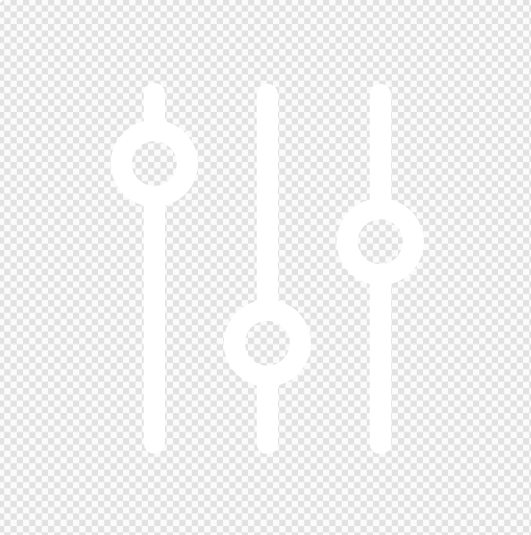
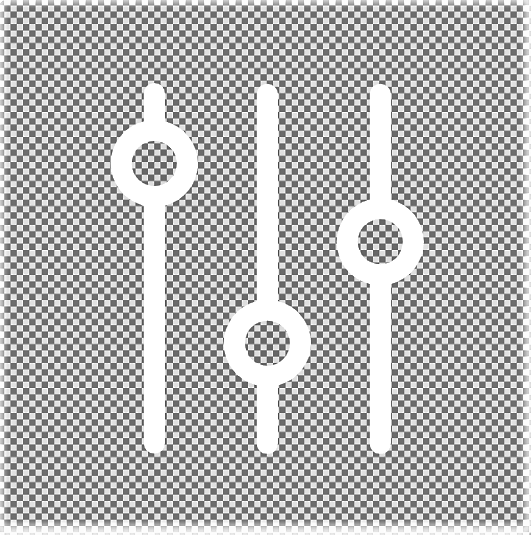
settings.jtm,l

diff --git a/Settings/Settings.html b/Settings/Settings.html
@@ -2,9 +2,68 @@
 <html lang="en">
 <head>
     <meta charset="UTF-8">
-    <title>Title</title>
+    <title>IntecTIV TITAN</title>
+
+    <meta name="description" content="Settings">
+    <meta name="viewport" content="width=device-width, initial-scale=1">
+
+    <link rel="manifest" href="../site.webmanifest">
+    <link rel="apple-touch-icon" href="../icon.png">
+    <!-- Place favicon.ico in the root directory -->
+
+    <link rel="stylesheet" href="../css/normalize.css">
+    <link rel="stylesheet" href="../css/main.css">
+
+    <!-- Google Font Roboto -->
+    <link href="https://fonts.googleapis.com/css?family=Roboto" rel="stylesheet">
+    <!-- Bootstrap -->
+    <link rel="stylesheet" href="https://maxcdn.bootstrapcdn.com/bootstrap/3.3.7/css/bootstrap.min.css">
+    <!-- Scrollbar Custom CSS -->
+    <link rel="stylesheet" href="https://cdnjs.cloudflare.com/ajax/libs/malihu-custom-scrollbar-plugin/3.1.5/jquery.mCustomScrollbar.min.css">
+
+    <meta name="theme-color" content="#fafafa">
 </head>
 <body>
 
+
+
+
+
+<!-- jQuery CDN - Slim version (=without AJAX) -->
+<script src="https://code.jquery.com/jquery-3.3.1.slim.min.js" integrity="sha384-q8i/X+965DzO0rT7abK41JStQIAqVgRVzpbzo5smXKp4YfRvH+8abtTE1Pi6jizo" crossorigin="anonymous"></script>
+<!-- Popper.JS -->
+<script src="https://cdnjs.cloudflare.com/ajax/libs/popper.js/1.14.0/umd/popper.min.js" integrity="sha384-cs/chFZiN24E4KMATLdqdvsezGxaGsi4hLGOzlXwp5UZB1LY//20VyM2taTB4QvJ" crossorigin="anonymous"></script>
+<!-- Bootstrap JS -->
+<script src="https://stackpath.bootstrapcdn.com/bootstrap/4.1.0/js/bootstrap.min.js" integrity="sha384-uefMccjFJAIv6A+rW+L4AHf99KvxDjWSu1z9VI8SKNVmz4sk7buKt/6v9KI65qnm" crossorigin="anonymous"></script>
+<!-- jQuery Custom Scroller CDN -->
+<script src="https://cdnjs.cloudflare.com/ajax/libs/malihu-custom-scrollbar-plugin/3.1.5/jquery.mCustomScrollbar.concat.min.js"></script>
+
+<!-- The core Firebase JS SDK is always required and must be listed first -->
+<script src="https://www.gstatic.com/firebasejs/6.3.1/firebase-app.js"></script>
+<script src="https://www.gstatic.com/firebasejs/6.2.4/firebase-firestore.js"></script>
+<script src="https://www.gstatic.com/firebasejs/6.2.4/firebase-auth.js"></script>
+
+<!-- TODO: Add SDKs for Firebase products that you want to use
+     https://firebase.google.com/docs/web/setup#config-web-app -->
+
+<script>
+    // Your web app's Firebase configuration
+    var firebaseConfig = {
+        apiKey: "AIzaSyCZuedYJur1aGBLr9lp-bt9DRsPfJiSxn4",
+        authDomain: "intectiv-titan.firebaseapp.com",
+        databaseURL: "https://intectiv-titan.firebaseio.com",
+        projectId: "intectiv-titan",
+        storageBucket: "",
+        messagingSenderId: "316077196522",
+        appId: "1:316077196522:web:241a1090b654bb8d"
+    };
+    // Initialize Firebase
+    firebase.initializeApp(firebaseConfig);
+    const db = firebase.firestore();
+    const Oa = firebase.auth();
+
+</script>
+
+<script src="App.js"></script>
 </body>
 </html>

diff --git a/App/App.html b/App/App.html
@@ -52,7 +52,7 @@
     </div>
     <ul>
       <li style=" position: fixed; bottom:0; margin-bottom: 30px; text-shadow: 2px 2px 4px rgba(79,79,79,0.75)" id="emailPlace">email Here</li>
-      <li style=" position: fixed; bottom:0; margin-bottom: 10px; text-shadow: 2px 2px 4px rgba(79,79,79,0.75)" id="adminButton">Admin</li>
+      <li style=" position: fixed; bottom:0; margin-bottom: 10px; text-shadow: 2px 2px 4px rgba(79,79,79,0.75)" id="adminButton">Admin <img src="../Img/Settings.png" style="width: 5%; height: 5%;"></li>
     </ul>
   </nav>
 
